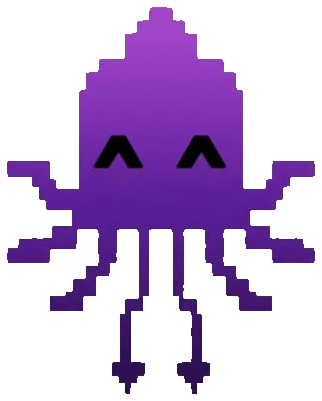
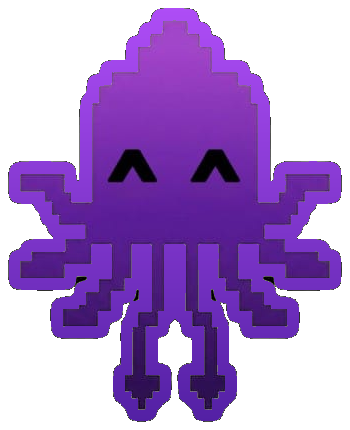
Restore mascot shape without white glow

Changed region(s): [[0.0, 0.0, 0.9938, 0.9875], [0.528, 0.419, 0.5901, 0.4489], [0.4037, 0.419, 0.4658, 0.4489]]

diff --git a/make_gif.py b/make_gif.py
@@ -154,52 +154,26 @@ def crop_part(source, mask_box):
 
 
 def animated_mascot_source(phase=0.0, mood="talk"):
-    source = MASCOT.copy()
-    w, h = source.size
-    base = source.copy()
-
-    left_box = (0, int(h * 0.28), int(w * 0.30), int(h * 0.62))
-    right_box = (int(w * 0.70), int(h * 0.28), w, int(h * 0.62))
-    tentacle_box = (int(w * 0.18), int(h * 0.51), int(w * 0.82), h)
-
-    left, lx, ly = crop_part(source, left_box)
-    right, rx, ry = crop_part(source, right_box)
-    tentacles, tx, ty = crop_part(source, tentacle_box)
-
-    # Keep the original mascot fully intact. The overlays are exact cropped
-    # pixels from the mascot, nudged by integer offsets to create arm/tentacle
-    # motion without repainting the face or changing the design.
-    left_dx = round(math.sin(phase + 0.3) * 5)
-    right_dx = round(math.sin(phase + 2.3) * 5)
-    arm_dy = round(math.cos(phase) * 3)
-    tentacle_dx = round(math.sin(phase + 1.1) * 4)
-    tentacle_dy = round(math.cos(phase * 1.2) * 3)
-    paste_part(base, left, lx + left_dx, ly + arm_dy)
-    paste_part(base, right, rx + right_dx, ry - arm_dy)
-    paste_part(base, tentacles, tx + tentacle_dx, ty + tentacle_dy)
-
-    return base
+    return MASCOT.copy()
 
 
 def paste_mascot(img, x, y, height=265, phase=0.0, mood="talk"):
     bob = math.sin(phase) * 8
-    squash = 1 + math.sin(phase + 0.7) * 0.018
     source = animated_mascot_source(phase, mood)
     scale = height / source.height
-    w = int(source.width * scale * squash)
+    w = int(source.width * scale)
     h = int(source.height * scale)
     mascot = source.resize((w, h), Image.Resampling.NEAREST)
 
-    shadow = Image.new("RGBA", (w + 42, h + 42), (0, 0, 0, 0))
-    shadow.alpha_composite(mascot, (21, 18))
-    shadow = shadow.filter(ImageFilter.GaussianBlur(14))
-    img.alpha_composite(shadow, (int(x - 12), int(y + bob + 16)))
     img.alpha_composite(mascot, (int(x), int(y + bob)))
 
     draw = ImageDraw.Draw(img)
     if mood == "point":
         pulse = 7 + int((math.sin(phase) + 1) * 4)
         draw.ellipse([x + w + 34 - pulse, y + bob + h * 0.34 - pulse, x + w + 34 + pulse, y + bob + h * 0.34 + pulse], outline=CYAN, width=3)
+        for offset in [0, 10, 20]:
+            yy = y + bob + h * 0.44 + math.sin(phase + offset) * 5
+            draw.arc([x + w - 8 + offset, yy - 12, x + w + 18 + offset, yy + 12], 300, 60, fill=PURPLE, width=3)
     elif mood == "celebrate":
         for dx, dy, color in [(-20, -24, YELLOW), (w + 15, -12, CYAN), (w + 40, 42, PINK)]:
             draw.ellipse([x + dx, y + bob + dy, x + dx + 10, y + bob + dy + 10], fill=color)
